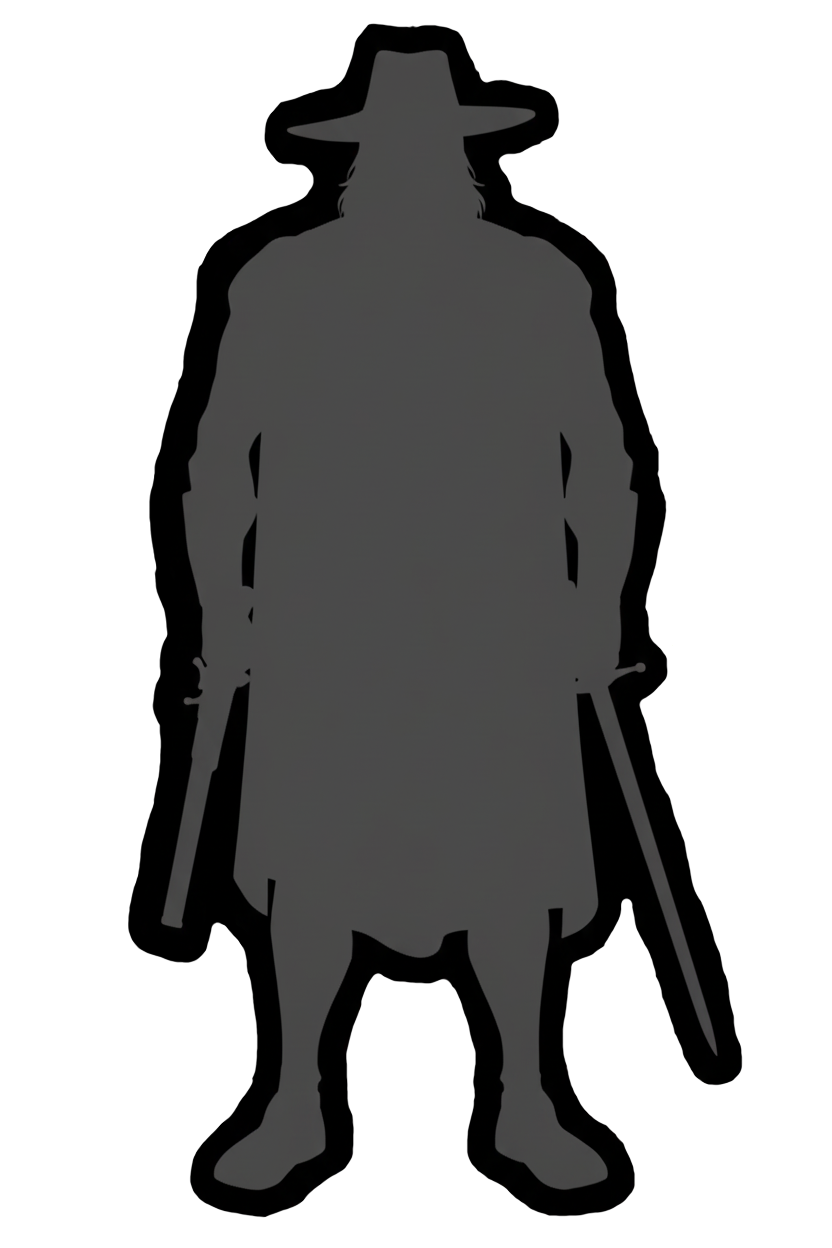
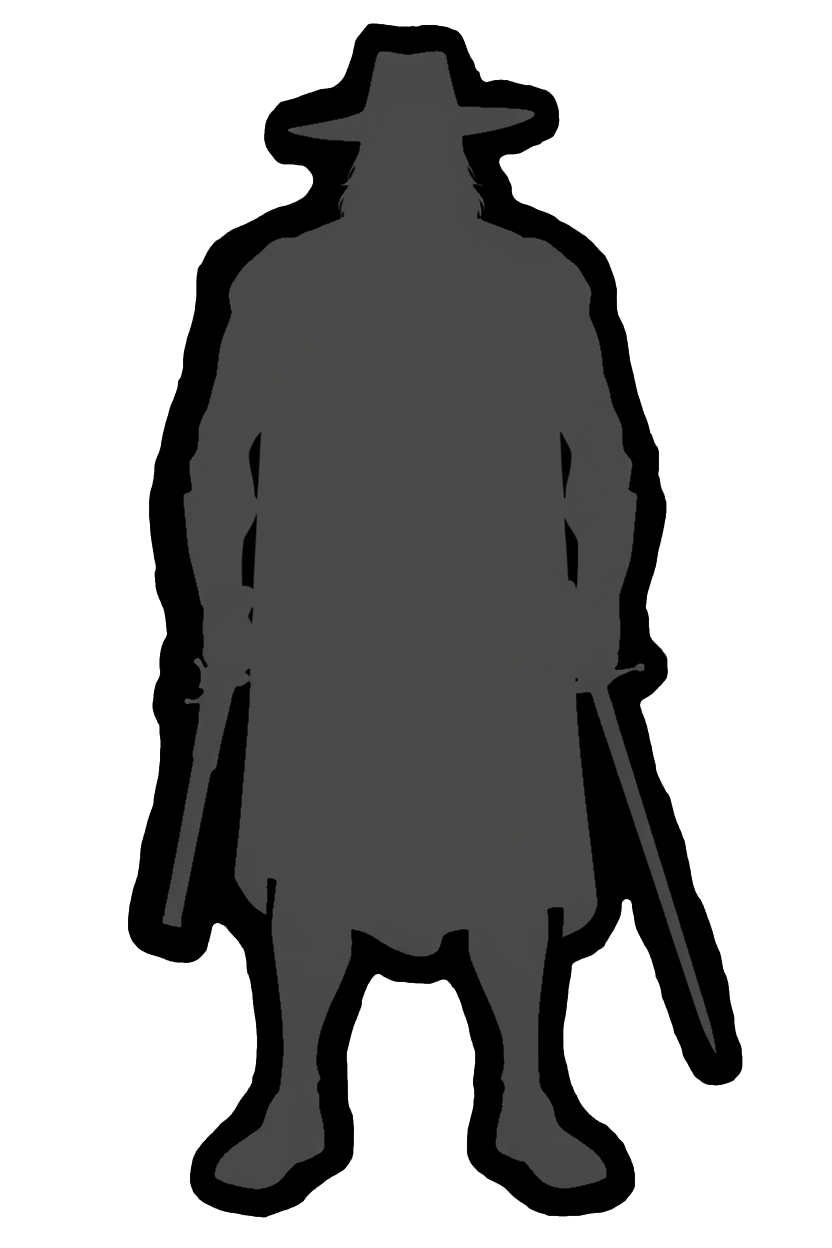
moins foncé

Changed region(s): [[0.6562, 0.7188, 0.6875, 0.75], [0.3125, 0.7188, 0.3438, 0.75]]

diff --git a/Savage Worlds - Solomon Kane/SavageWorldsGraphPaper.css b/Savage Worlds - Solomon Kane/SavageWorldsGraphPaper.css
@@ -1450,7 +1450,7 @@
   transform: translateX(-50%);
 }
 .ui-dialog .tab-content .charsheet .sheet-silhouette__switch:checked + .sheet-silhouette__image {
-  background-image: url("https://raw.githubusercontent.com/Onaldanm/roll20-character-sheets/solomon-kane-jdr/Savage%20Worlds%20-%20Solomon%20Kane/img/male_solomon_silouette.png");
+  background-image: url("https://raw.githubusercontent.com/Onaldanm/roll20-character-sheets/solomon-kane-jdr/Savage%20Worlds%20-%20Solomon%20Kane/img/male_solomon_silouette_dark.png");
 }
 .ui-dialog .tab-content .charsheet .sheet-silhouette__switch:checked ~ .sheet-silhouette__left-arm-upper {
   top: 70px;

diff --git a/Savage Worlds - Solomon Kane/browser_preview.html b/Savage Worlds - Solomon Kane/browser_preview.html
@@ -1454,7 +1454,7 @@
   transform: translateX(-50%);
 }
 .ui-dialog .tab-content .charsheet .sheet-silhouette__switch:checked + .sheet-silhouette__image {
-  background-image: url("https://raw.githubusercontent.com/Onaldanm/roll20-character-sheets/solomon-kane-jdr/Savage%20Worlds%20-%20Solomon%20Kane/img/male_solomon_silouette");
+  background-image: url("https://raw.githubusercontent.com/Onaldanm/roll20-character-sheets/solomon-kane-jdr/Savage%20Worlds%20-%20Solomon%20Kane/img/male_solomon_silouette-dark.png");
 }
 .ui-dialog .tab-content .charsheet .sheet-silhouette__switch:checked ~ .sheet-silhouette__left-arm-upper {
   top: 70px;

diff --git a/Savage Worlds - Solomon Kane/source/styles/_silhouette.scss b/Savage Worlds - Solomon Kane/source/styles/_silhouette.scss
@@ -133,7 +133,7 @@
     }
 
     &:checked + .sheet-silhouette__image {
-      background-image: url('https://raw.githubusercontent.com/Onaldanm/roll20-character-sheets/solomon-kane-jdr/Savage%20Worlds%20-%20Solomon%20Kane/img/male_solomon_silouette.png');
+      background-image: url('https://raw.githubusercontent.com/Onaldanm/roll20-character-sheets/solomon-kane-jdr/Savage%20Worlds%20-%20Solomon%20Kane/img/male_solomon_silouette_dark.png');
     }
 
     // Marker position overwrites
